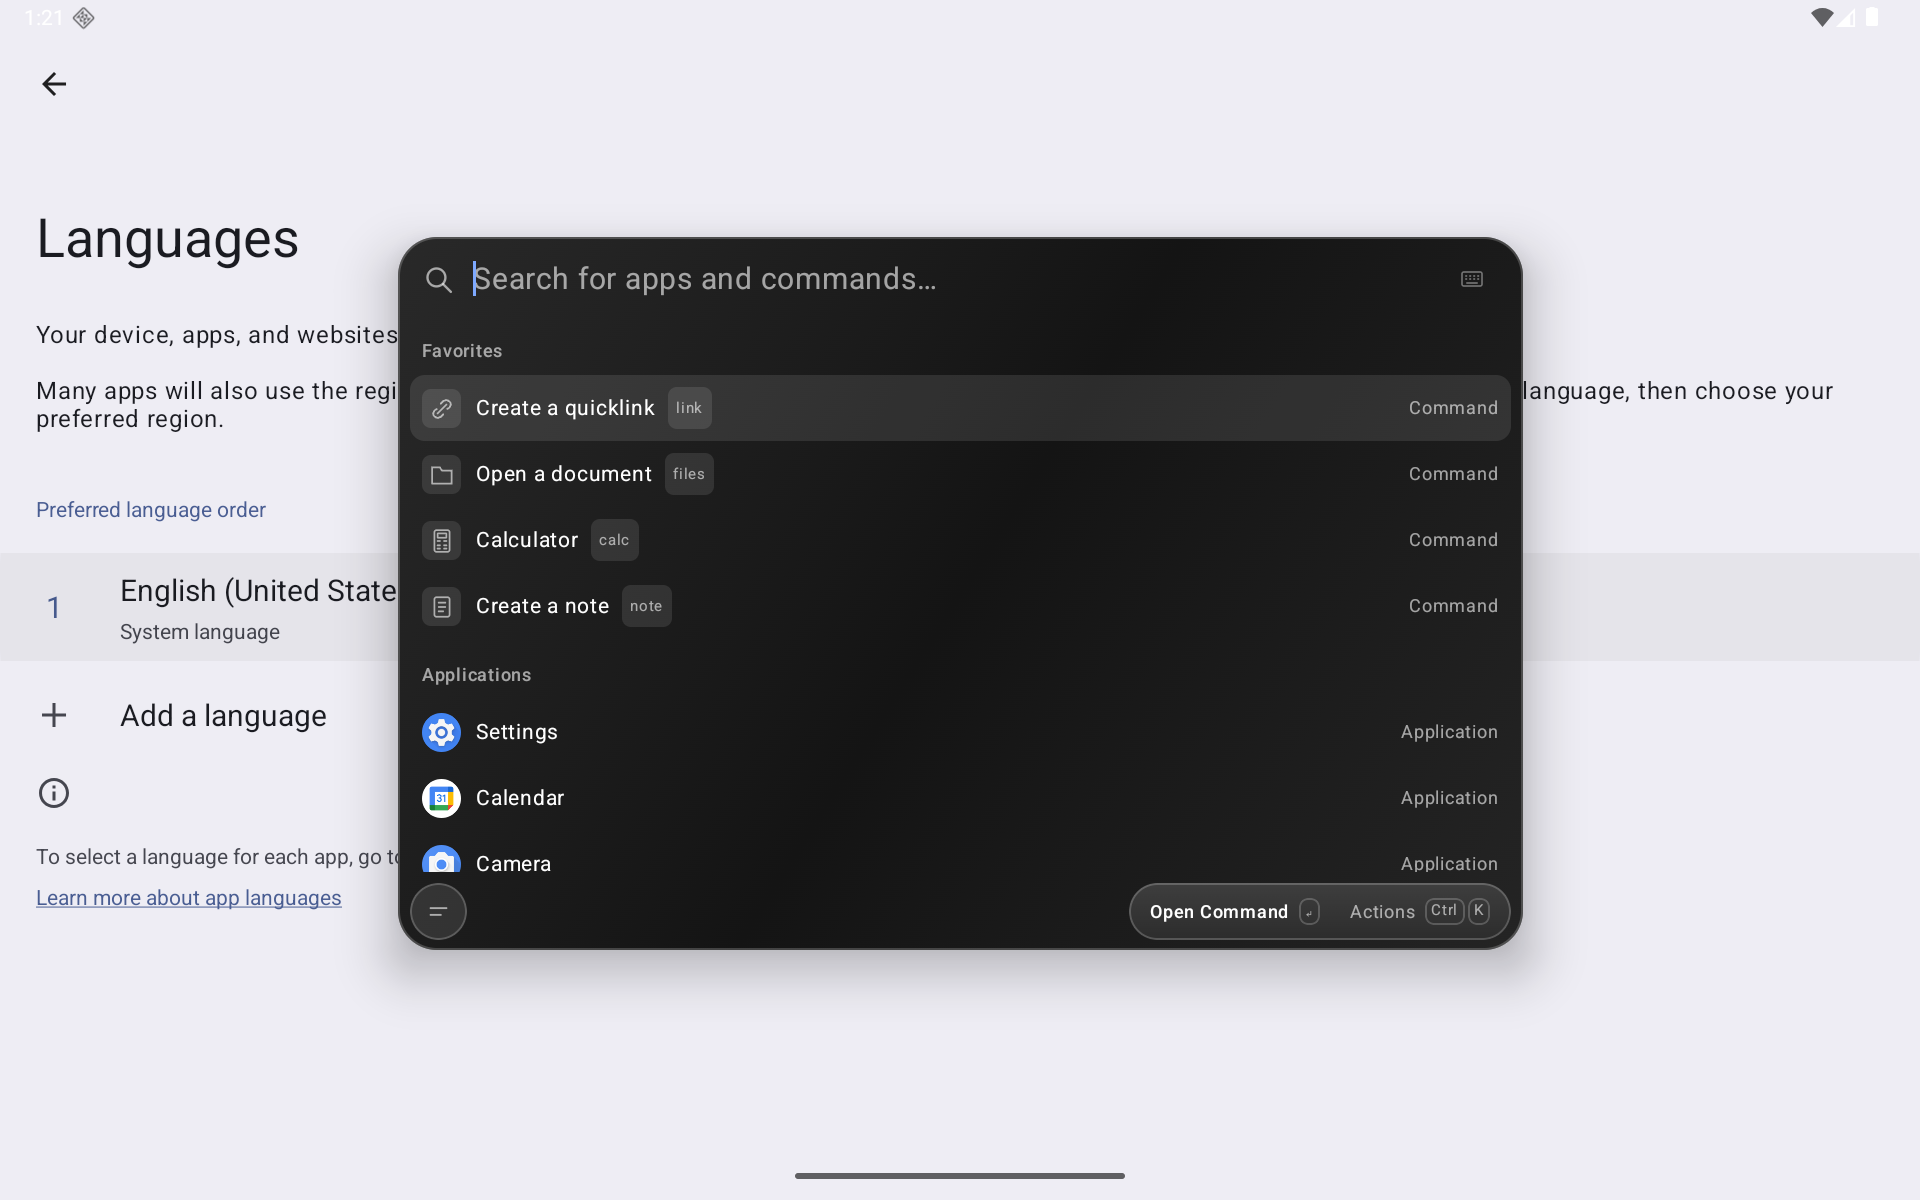
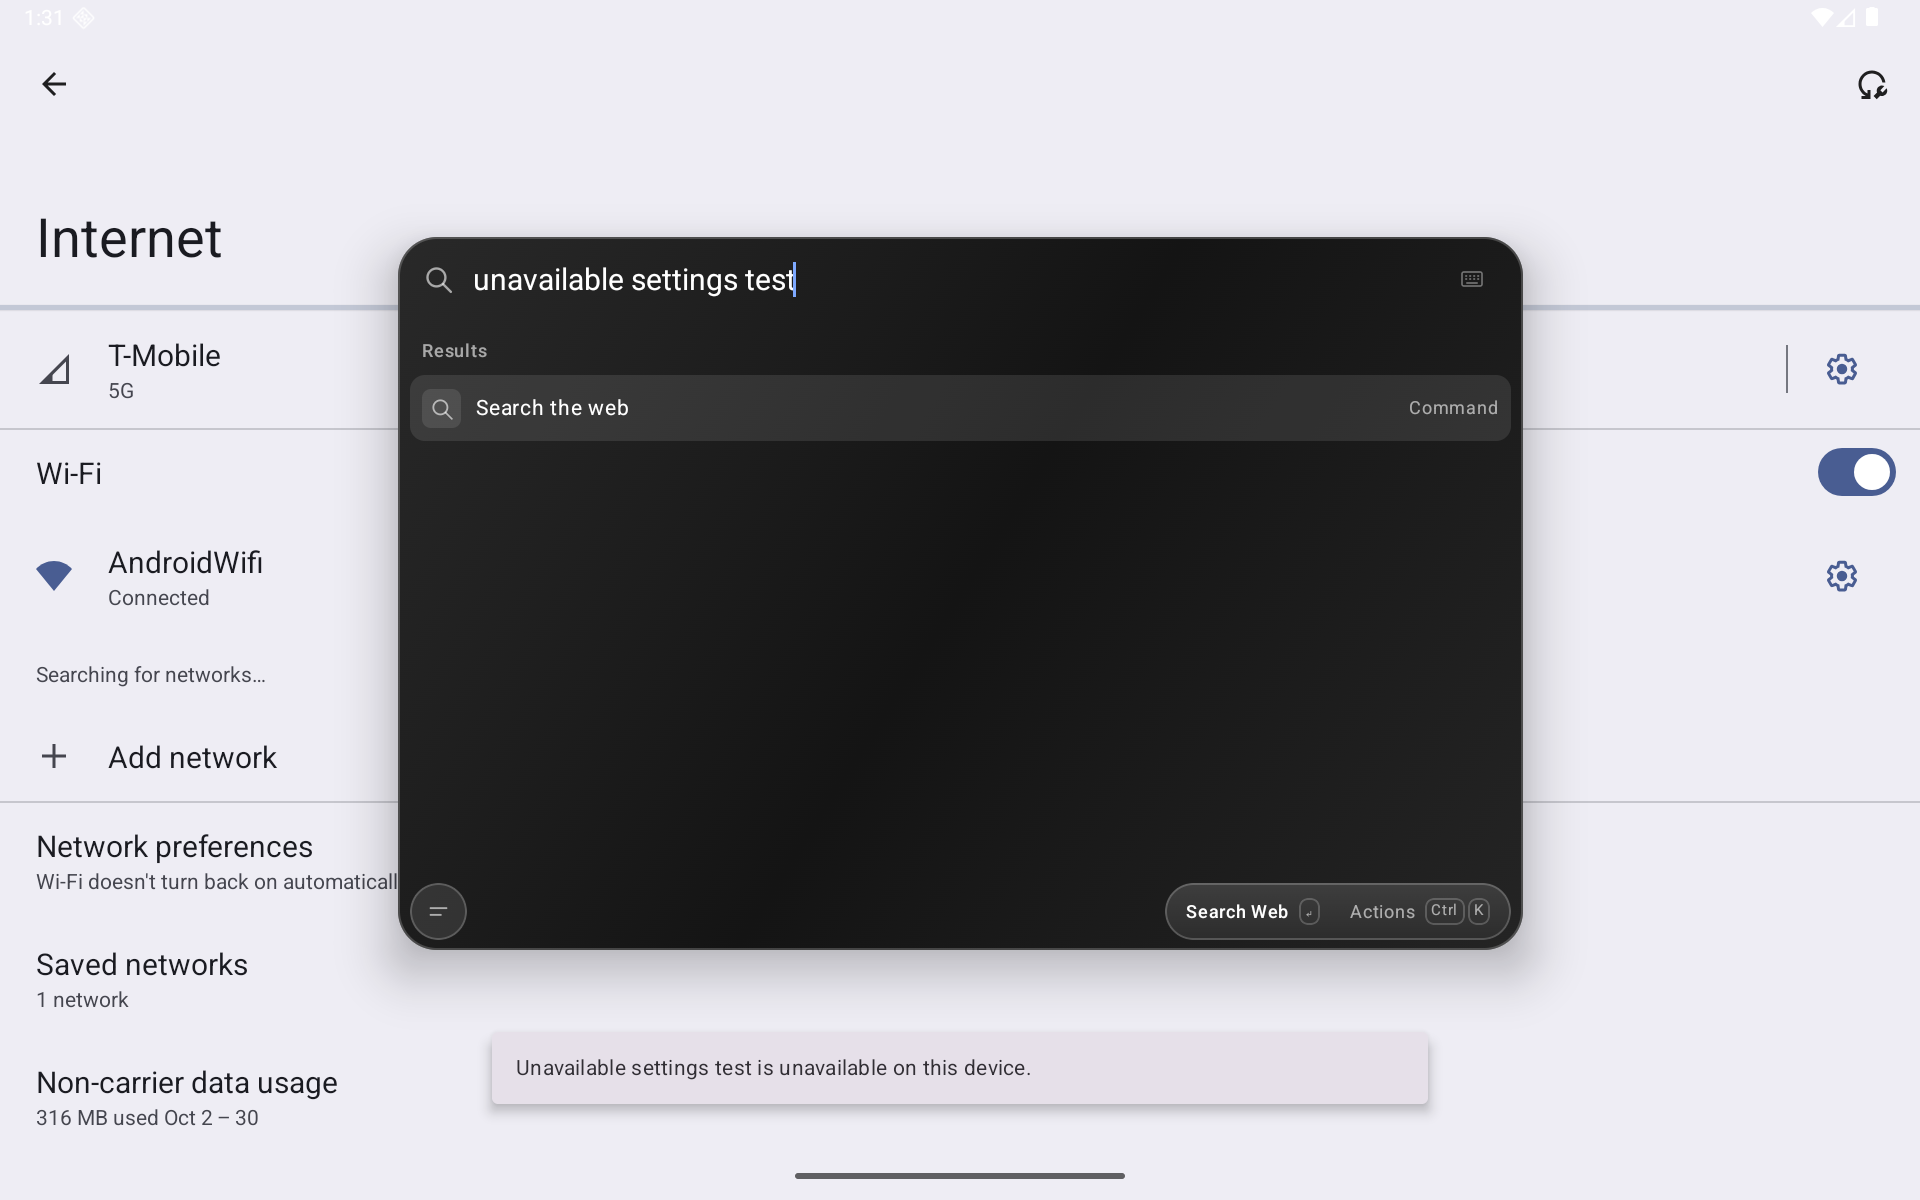
Replace tablet error screenshot with verified query and snackbar

diff --git a/docs/validation/system-settings.md b/docs/validation/system-settings.md
@@ -37,7 +37,7 @@ Other destination captures are alongside these in the same directory.
 
 ## Independent audit remediation
 
-Both initial gpt-6.1-sol/high audits flagged that the original generic Settings check could accept an unrelated page; the original app-info capture showed Accessibility. Investigation reproduced a warm-task routing bug: NEW_TASK could foreground the previous Settings page for app-info. Dedicated settings intents now include CLEAR_TOP. Every destination has specific UI assertions, app-scoped identity/arguments are checked, all destination captures were replaced, and the 29 tablet tests were rerun successfully. Both phone checks passed again on the same updated application. The initial evidence is superseded by this validation.
+Both initial gpt-6.1-sol/high audits flagged that the original generic Settings check could accept an unrelated page; the original app-info capture showed Accessibility. Investigation reproduced a warm-task routing bug: NEW_TASK could foreground the previous Settings page for app-info. Dedicated settings intents now include CLEAR_TOP. Every destination has specific UI assertions, app-scoped identity/arguments are checked, all destination captures were replaced, and the 29 tablet tests were rerun successfully. Both phone checks passed again on the same updated application. A second audit caught an incorrect tablet error PNG; that single test was rerun successfully and its replacement capture was visually verified to contain the preserved query and snackbar. No application or test code changed for that evidence correction. The initial evidence is superseded by this validation.
 
 ## Boundaries
 
